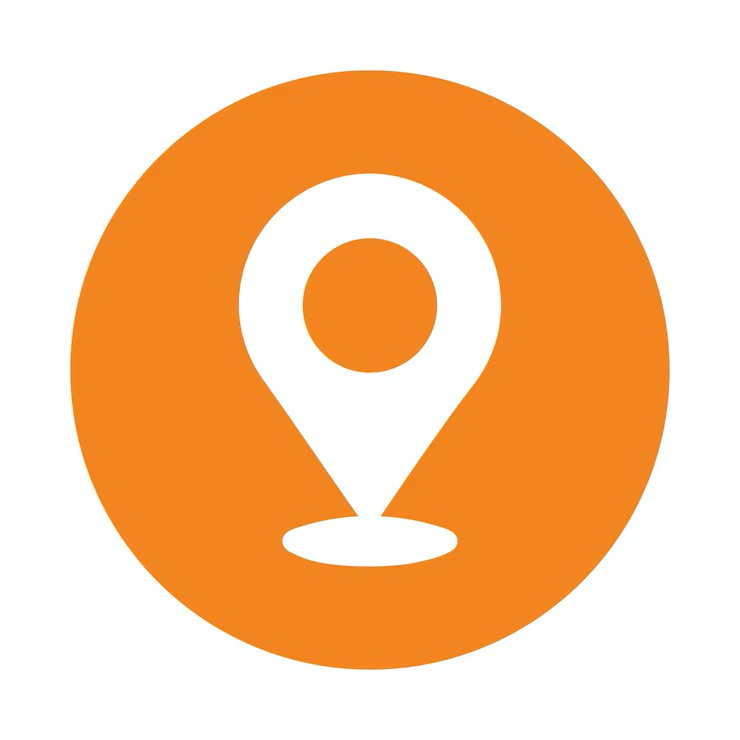
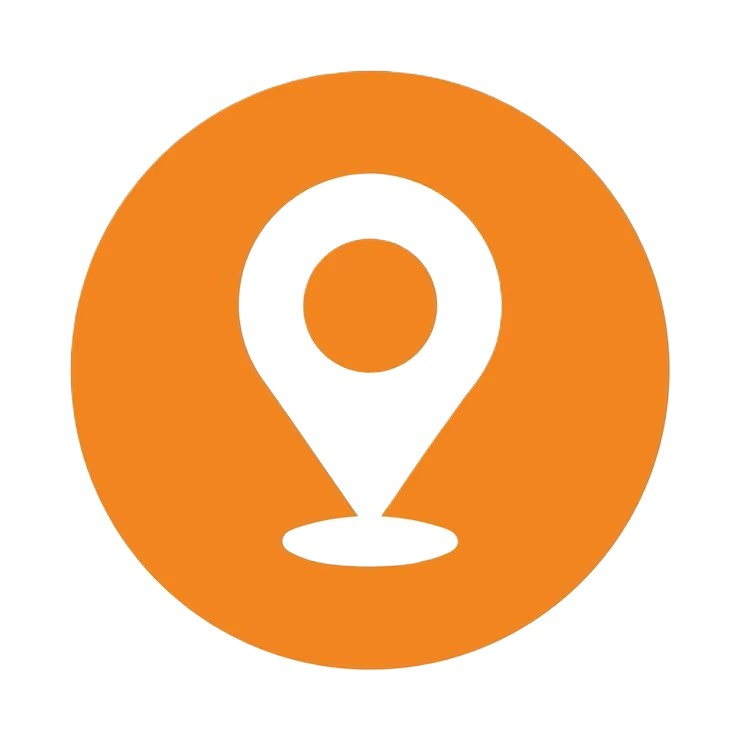
version final

diff --git a/Contactez-nous.html b/Contactez-nous.html
@@ -40,9 +40,10 @@
         <section id="contact" class="fitness">
             <div class="balise">
 
-                
+
                 <div class="section-titre">
-                    <h2>Avez-vous des questions?<br>Choisissez-vous un programme?</h2>
+                    <h1>Avez-vous des questions?</h1>
+                    <h2>Choisissez-vous un programme?</h2>
                     <p>Nous serons ravis de répondre à vos questions, n’hésitez pas à nous les envoyer.</p>
                 </div>
                 <div class="contactDisplay">
@@ -64,13 +65,13 @@
                         </article>
                     </div>
                     <div class="formulaire">
-                        <form action="">
+                        <form>
                             <label for="nom">Nom complète</label>
-                            <input type="text" id="nom" placeholder="Nom complet">
+                            <input type="text" id="nom" placeholder="Nom complet" required>
                             <label for="numéro">Télephone</label>
-                            <input type="text" id="numéro" placeholder="Télephone">
+                            <input type="text" id="numéro" placeholder="Télephone" required>
                             <label for="email">E-mail</label>
-                            <input type="email" id="email" placeholder="xyz@mail.com">
+                            <input type="email" id="email" placeholder="xyz@mail.com" required>
                             <label for="abonnements">Abonnement</label>
                             <select name="abonnements" id="abonnements">
                                 <option value="essentiel">Essentiel</option>
@@ -78,8 +79,11 @@
                                 <option value="duo">Duo</option>
                             </select>
                             <label for="text">Message</label>
-                            <textarea name="text" id="text" placeholder="Votre message..."></textarea>
-                            <div class="buttonContact"><button type="button" class="button">Envoyer</button></div>
+                            <textarea name="text" id="text" placeholder="Votre message..." required></textarea>
+                            <div class="buttonContact">
+                                <button type="submit" class="button">Envoyer</button>
+                                <button type="reset" class="button">Réinitialiser</button>
+                            </div>
                         </form>
                     </div>
                 </div>

diff --git a/contact.css b/contact.css
@@ -8,7 +8,7 @@
   width: 600px;
   height: 200px;
   border-radius: 20px;
-  resize:vertical 
+  resize: vertical
 }
 
 .contactDisplay {
@@ -46,6 +46,7 @@ input {
   border: 1px solid gray;
   border-radius: 10px;
   background-color: #f7f8fa;
+  height: 620px;
 }
 
 select {
@@ -57,8 +58,7 @@ select {
   color: rgba(0, 0, 0, 0.551);
   font-weight: bold;
   padding: 0 5px;
-  /* text-align: center; */
-  height: 30px;
+  height: 38px;
   border: 2px rgb(0, 0, 0) solid;
   border-radius: 16px;
 }
@@ -71,6 +71,7 @@ input {
   display: flex;
   gap: 24px;
   margin: 24px;
+  height: 620px;
 }
 
 .formulaire {
@@ -84,6 +85,7 @@ input {
 
 .formulaire input {
   width: 600px;
+  height: 38px;
   padding: 0px 12px;
   border: 2px black solid;
   border-radius: 15px;
@@ -98,7 +100,7 @@ form {
 .buttonContact {
   display: flex;
   padding: 10px;
-  justify-content: center;
+  justify-content: space-evenly;
 }
 
 main {
@@ -140,7 +142,7 @@ footer {
   padding: 24px;
   background-color: #f7f8fa;
   box-shadow: none;
-  margin: 24px;
+  margin: 16px;
 }
 
 .informationBox .icone {
@@ -166,17 +168,19 @@ footer {
   margin: 0 auto;
   padding: 0 24px;
 }
-@media (min-width : 600px){
-  html{
-    flex-direction: column;
-  }
-}
-.contactDisplay{
-  display: flex;
-}
-@media (max-width : 600px){
-  .contactDisplay{
+
+@media (min-width : 600px) {
+  html {
     flex-direction: column;
   }
 }
 
+.contactDisplay {
+  display: flex;
+}
+
+@media (max-width : 600px) {
+  .contactDisplay {
+    flex-direction: column;
+  }
+}

diff --git a/index.html b/index.html
@@ -6,7 +6,7 @@
   <meta name="viewport" content="width=device-width, initial-scale=1">
   <meta name="description"
     content="Élan Fitness, salle de sport à Casablanca : musculation, yoga, cardio et boxe fitness avec des coachs diplômés. Réservez votre cours d'essai gratuit.">
-  <title>Élan Fitness | Salle de sport à Casablanca</title>
+  <title>Élan Fitness | La meilleure salle de sport de Casablanca</title>
   <link rel="icon" type="image/svg" href="img/logo.png">
 
   <link rel="preconnect" href="https://fonts.googleapis.com">
@@ -46,7 +46,7 @@
             <p class="sur-titre">Salle de sport à Casablanca</p>
             <h1>Dépasse tes limites, à ton rythme</h1>
             <p class="hero-description">
-              Des coachs diplômés, des programmes pour tous les niveaux et une salle ouverte 7 jours sur 7.
+              Profitez d'un club de fitness moderne ouvert 7j/7 avec des coachs sportifs certifiés. Que votre objectif soit la perte de poids, la prise de masse ou la remise en forme, découvrez des programmes d'entraînement sur-mesure pour tous les niveaux.
             </p>
             <div class="boutons">
               <a href="Programmes.html" class="bouton bouton-principal">Voir les programmes</a>

diff --git a/style.css b/style.css
@@ -103,7 +103,6 @@ button:focus-visible {
   letter-spacing: 1px;
   margin-bottom: 12px;
 }
-
 .bouton {
   display: inline-block;
   padding: 14px 28px;
@@ -175,6 +174,7 @@ button:focus-visible {
 
 .en-tete {
   position: sticky;
+  align-items: flex-start;
   top: 0;
   z-index: 10;
   background-color: #FFFFFF;
@@ -254,6 +254,7 @@ button:focus-visible {
   line-height: 1.6;
   color: #4B5563;
   margin-bottom: 32px;
+  max-width: 640px;
 }
 
 .boutons {
@@ -522,6 +523,7 @@ button:focus-visible {
 
 .pied-de-page {
   padding: 48px 0 32px;
+  align-items: flex-end;
   background-color: #0F1B2D;
   color: #FFFFFF;
 }

diff --git a/À_propos.html b/À_propos.html
@@ -40,7 +40,7 @@
             <div class="conteneur apropos-contenu">
 
                 <div class="apropos-texte">
-                    <p class="sur-titre">Notre histoire et notre mission</p>
+                    <h1 class="sur-titre">Notre histoire et notre mission</h1>
                     <h2>Une communauté passionnée au cœur de Casablanca</h2>
                     <p>
                         Fondé avec la conviction que le sport doit être accessible, motivant et bienveillant,

diff --git a/Programmes.html b/Programmes.html
@@ -39,6 +39,7 @@
         <div class="conteneur">
 
             <div class="section-titre">
+                <h1 class="sur-titre">Activités & Cours Collectifs à Casablanca</h1>
                 <h2>Nos programmes</h2>
                 <p>Un programme pour chaque objectif</p>
             </div>
